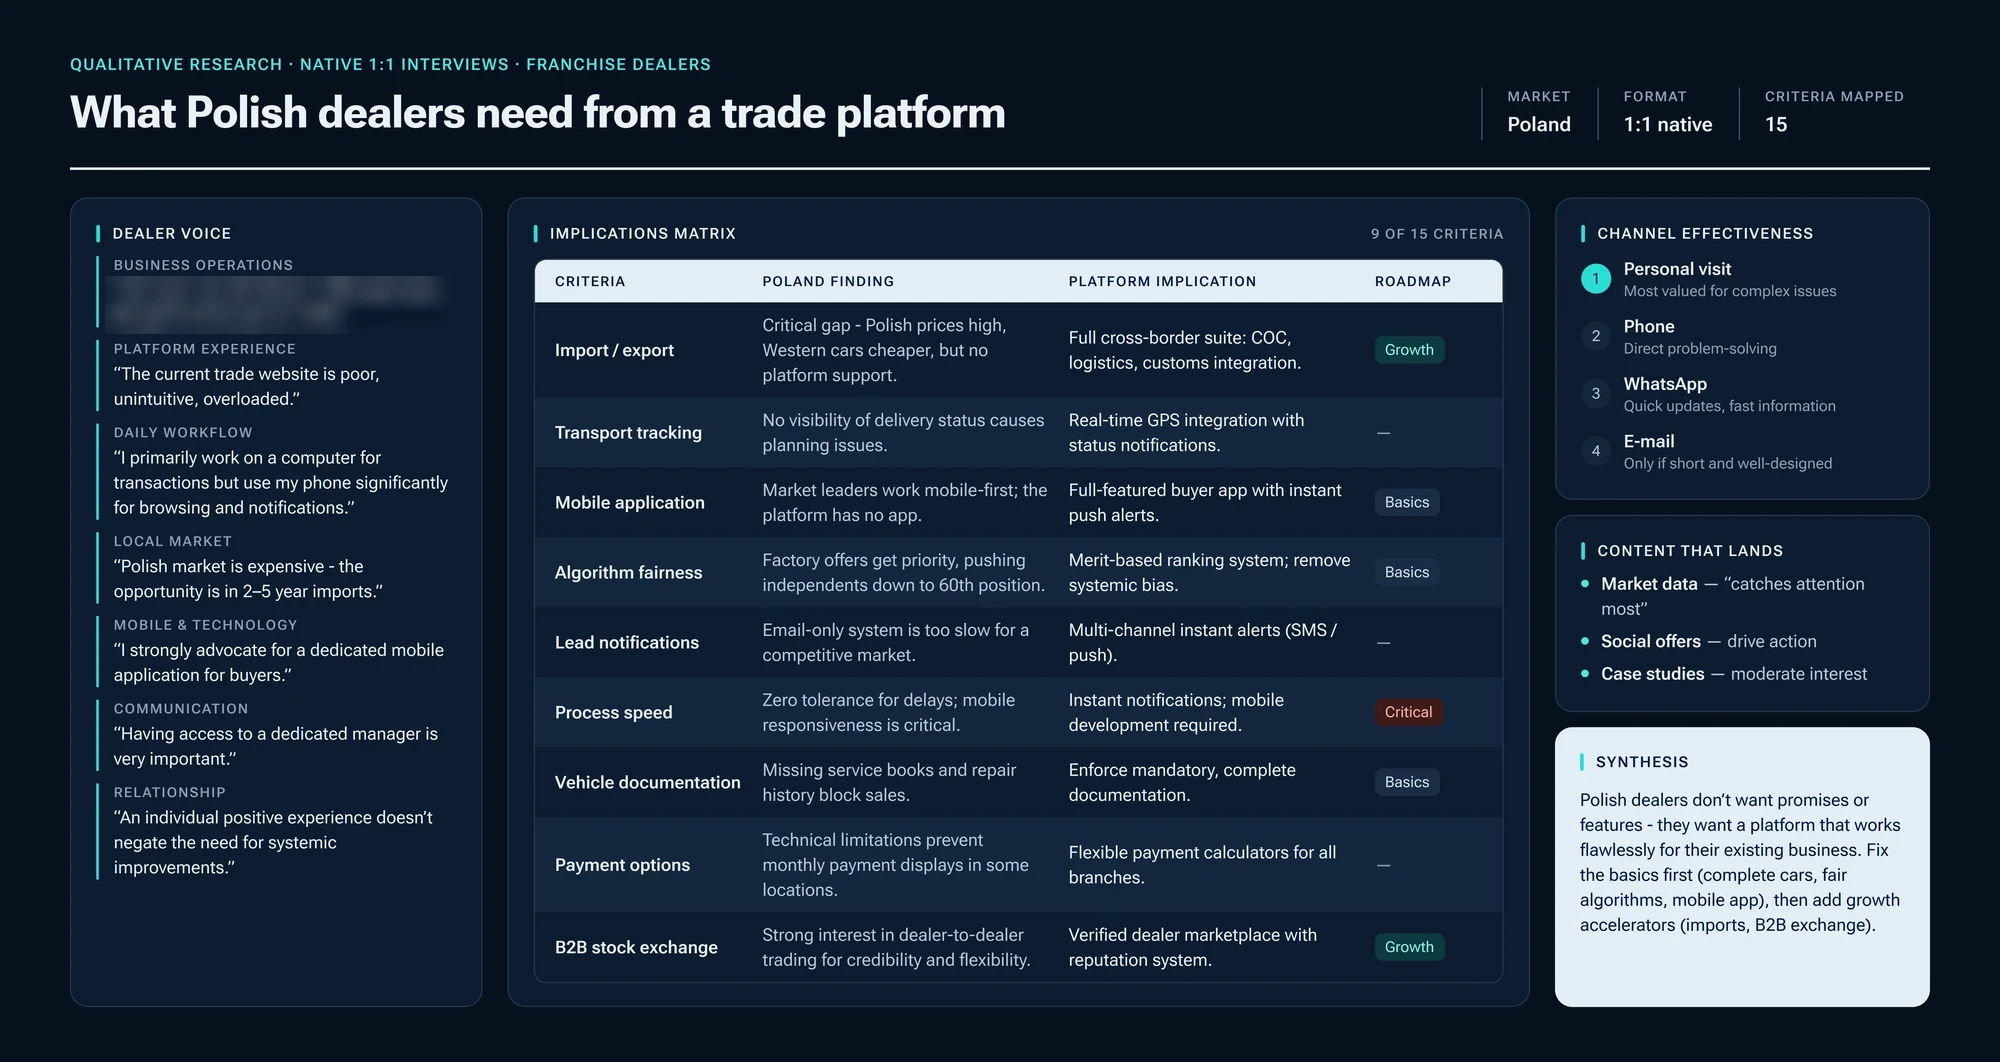
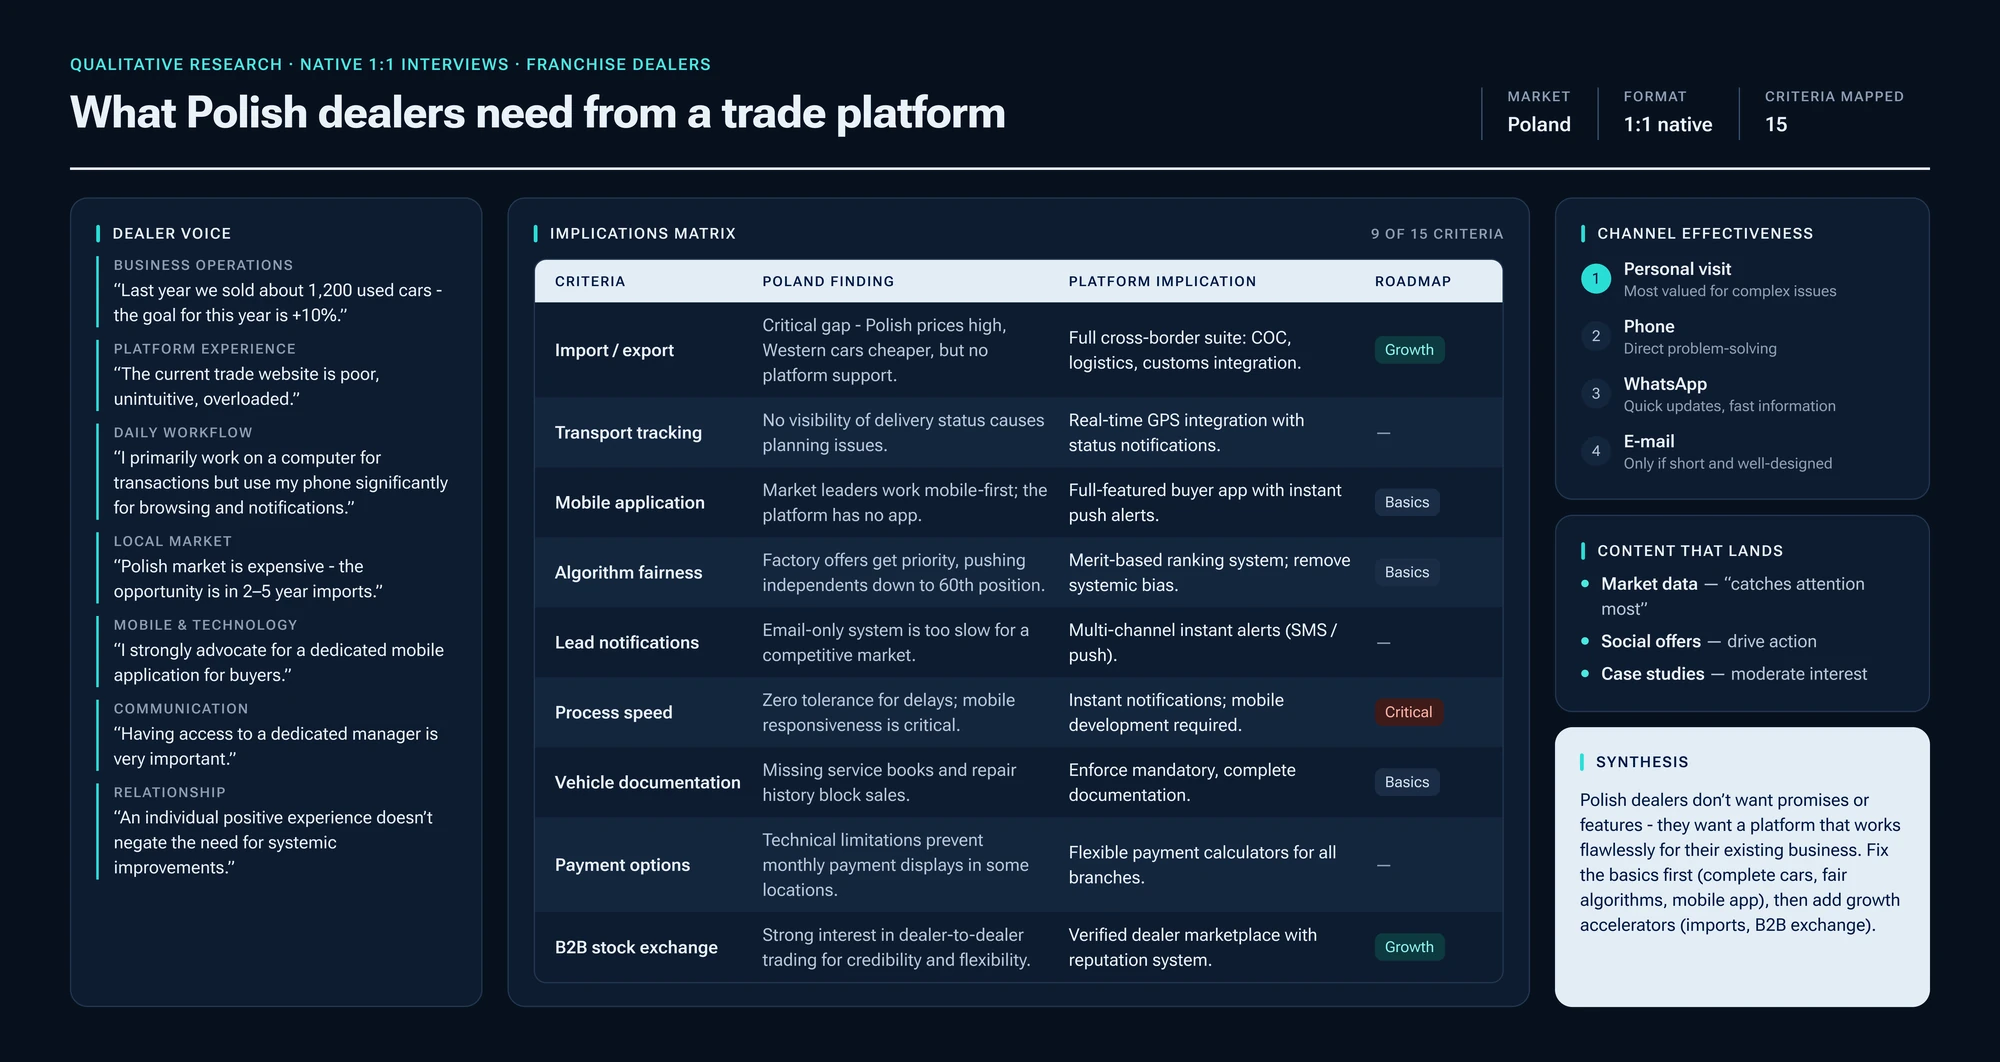
Show Karolina's approved research boards without blurs (5.14.7)
Karolina approved the Automotive figures in writing and confirmed her
screenshots hold no confidential data: the persona, survey and interview
boards and the legacy My Profile screen are her originals again. The
search data drops the Google UX Design certificate no page mentions.

Changed region(s): [[0.062, 0.2486, 0.217, 0.3107]]

diff --git a/index.html b/index.html
@@ -102,12 +102,6 @@
                 "@type": "EducationalOccupationalCredential",
                 "credentialCategory": "degree",
                 "name": "Master of Science (MSc) in Psychology"
-              },
-              {
-                "@type": "EducationalOccupationalCredential",
-                "credentialCategory": "certificate",
-                "name": "Google UX Design Specialization",
-                "recognizedBy": { "@type": "Organization", "name": "Google" }
               }
             ],
             "sameAs": ["https://www.linkedin.com/in/karolinakita", "https://github.com/karolinakita-ux"]

diff --git a/src/features/case-studies/content/automotive.content.ts b/src/features/case-studies/content/automotive.content.ts
@@ -32,7 +32,7 @@ export const AUTOMOTIVE_CASE: CaseStudy = {
   notice: {
     tone: "warning",
     label: "Confidentiality note",
-    text: "Client and competitor names, logos and vehicle identifiers have been anonymised (“Tradelane” is a fictional brand), and some figures on the research boards are hidden. Findings and workflows are shown as delivered.",
+    text: "Client and competitor names, logos and vehicle identifiers have been anonymised (“Tradelane” is a fictional brand). Findings and workflows are shown as delivered.",
   },
   summaryTitle: "Overview & Problem",
   summary: [

diff --git a/CHANGELOG.md b/CHANGELOG.md
@@ -6,6 +6,14 @@ How versions, entries and releases are written: [CONTRIBUTING.md](CONTRIBUTING.m
 
 ## Unreleased
 
+### 5.14.7 - 2026-10-30
+
+#### Changed
+
+- Automotive: the research boards show Karolina's originals again (persona, multi-market survey and interview synthesis, both themes). She approved the figures in writing and confirmed that her screenshots hold no confidential data, so nothing on them is blurred or painted over any more. The confidentiality note no longer says that some figures are hidden.
+- Smart Ticket: the legacy My Profile screen shows its sample email address again, as Karolina approved.
+- Search data: the Person block no longer lists the Google UX Design certificate, which no page mentions.
+
 ### 5.14.6 - 2026-10-30
 
 #### Fixed
